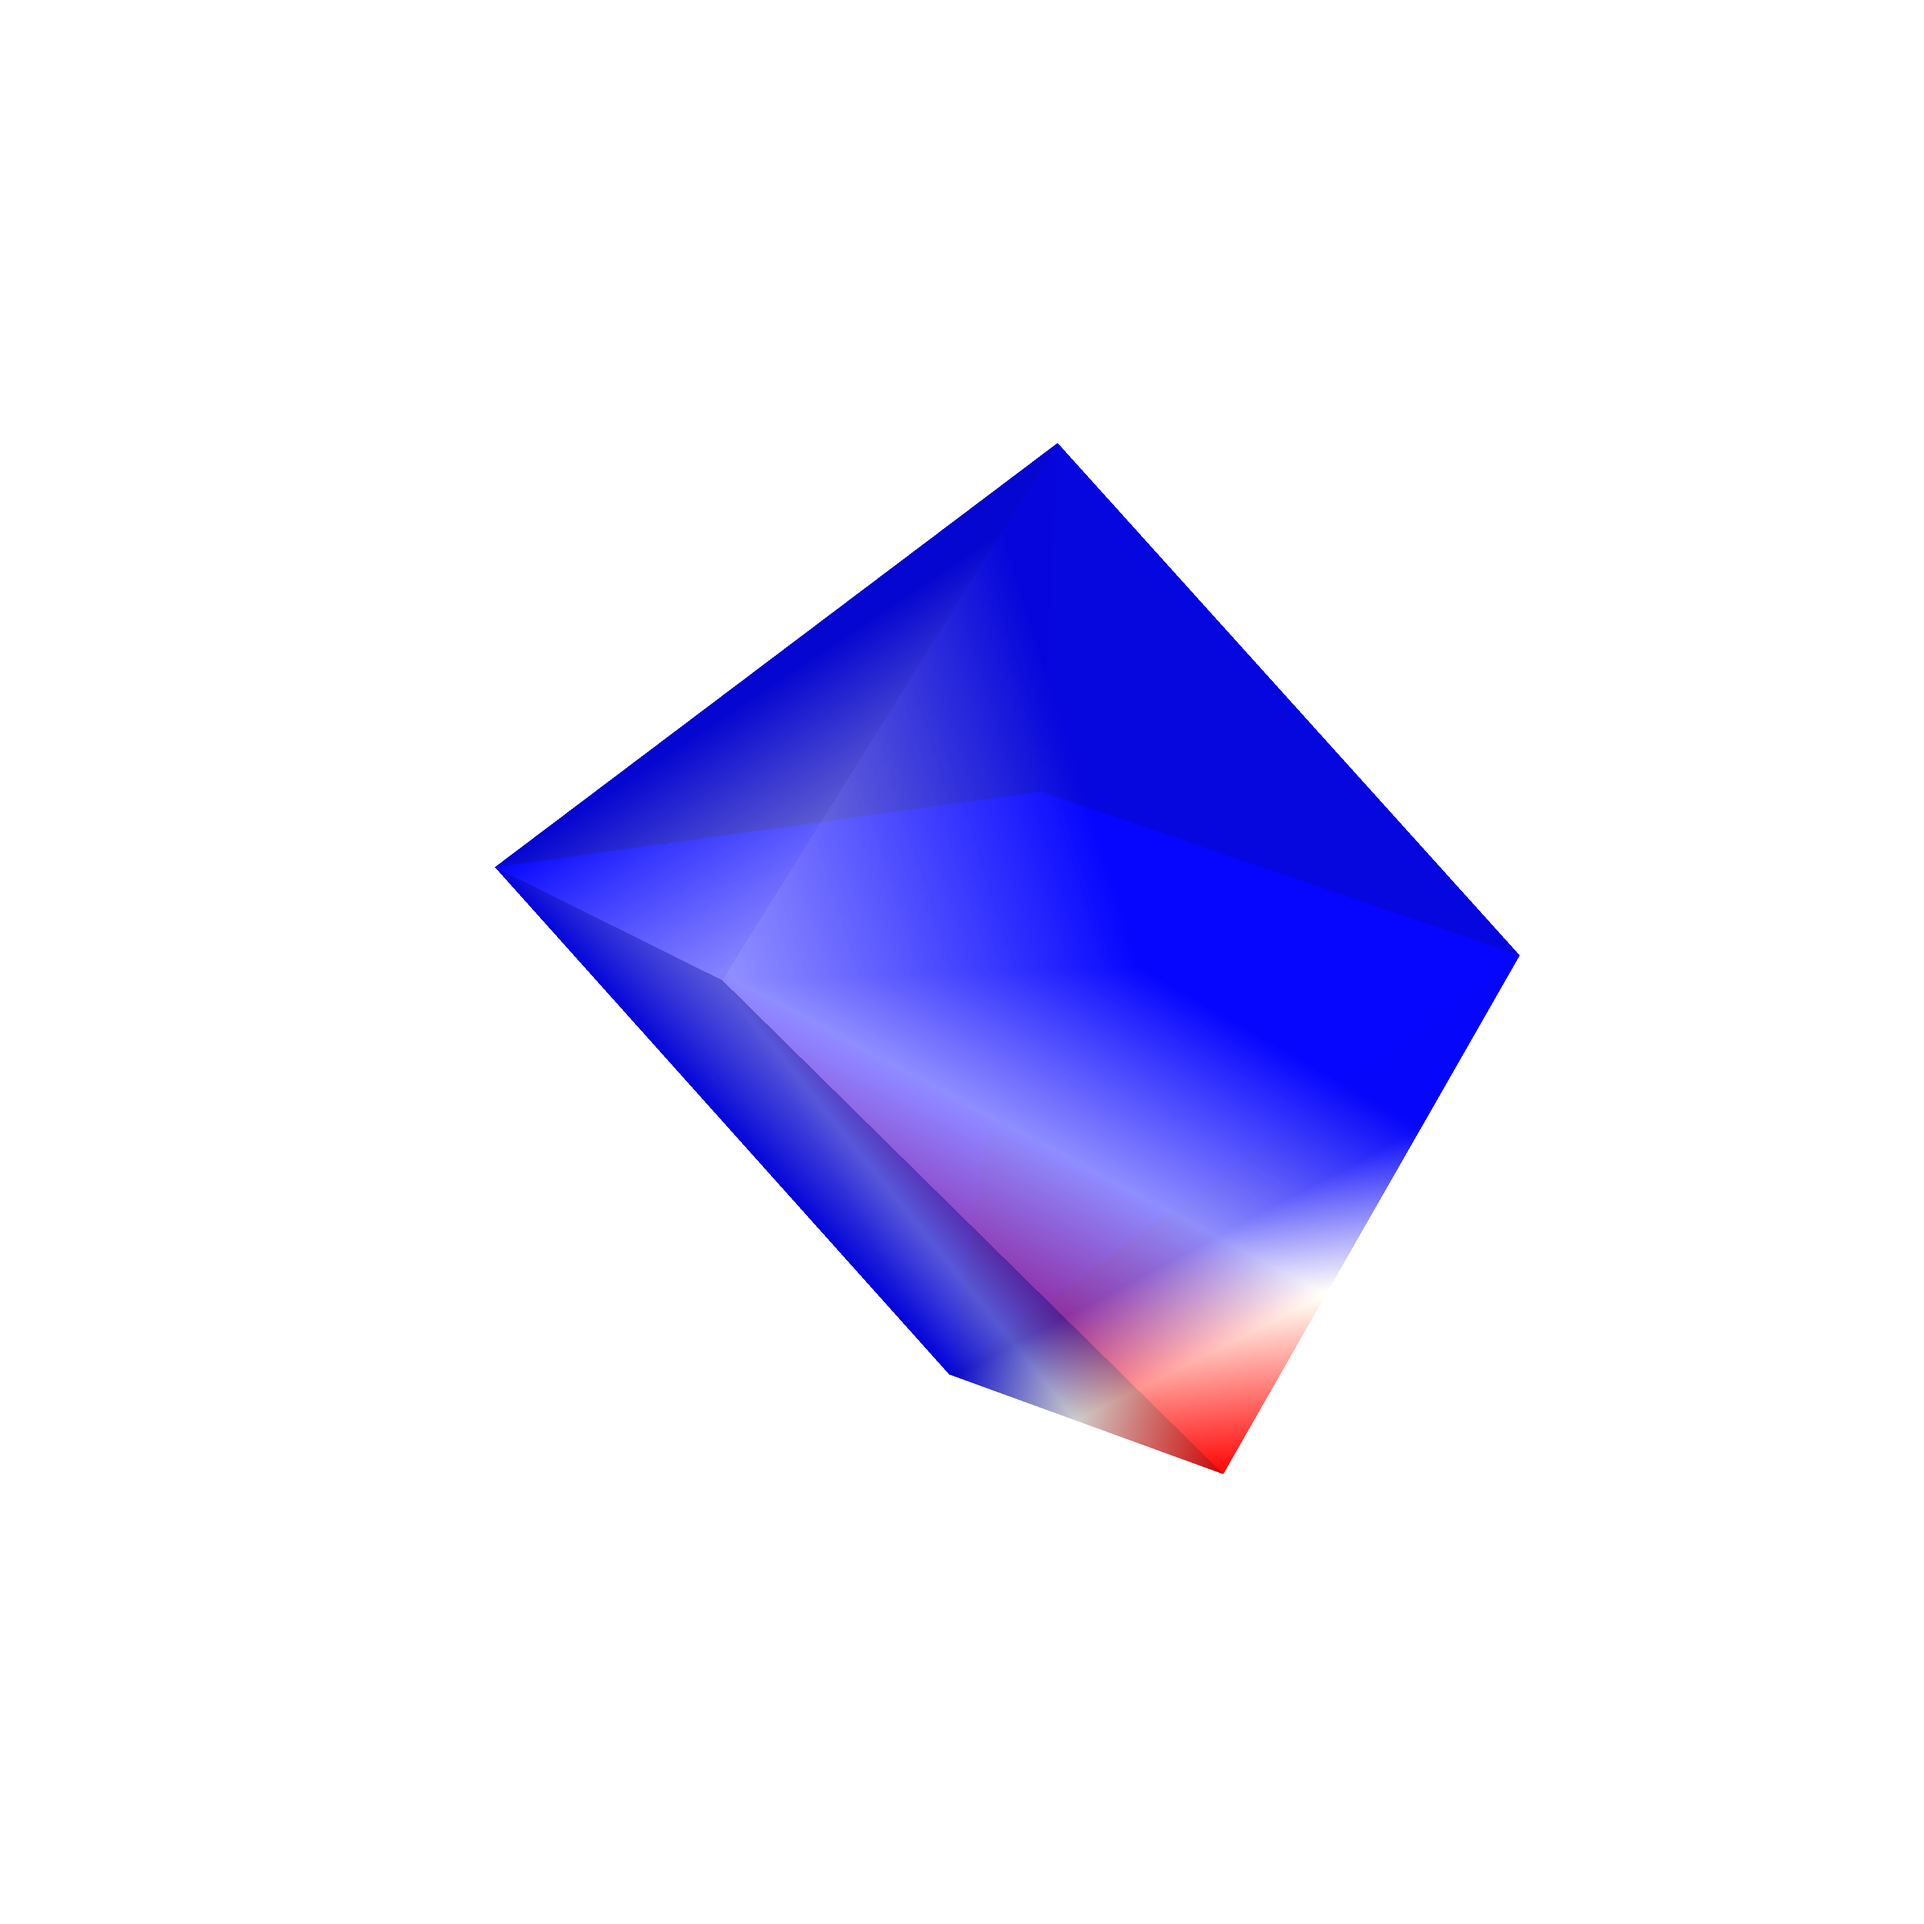
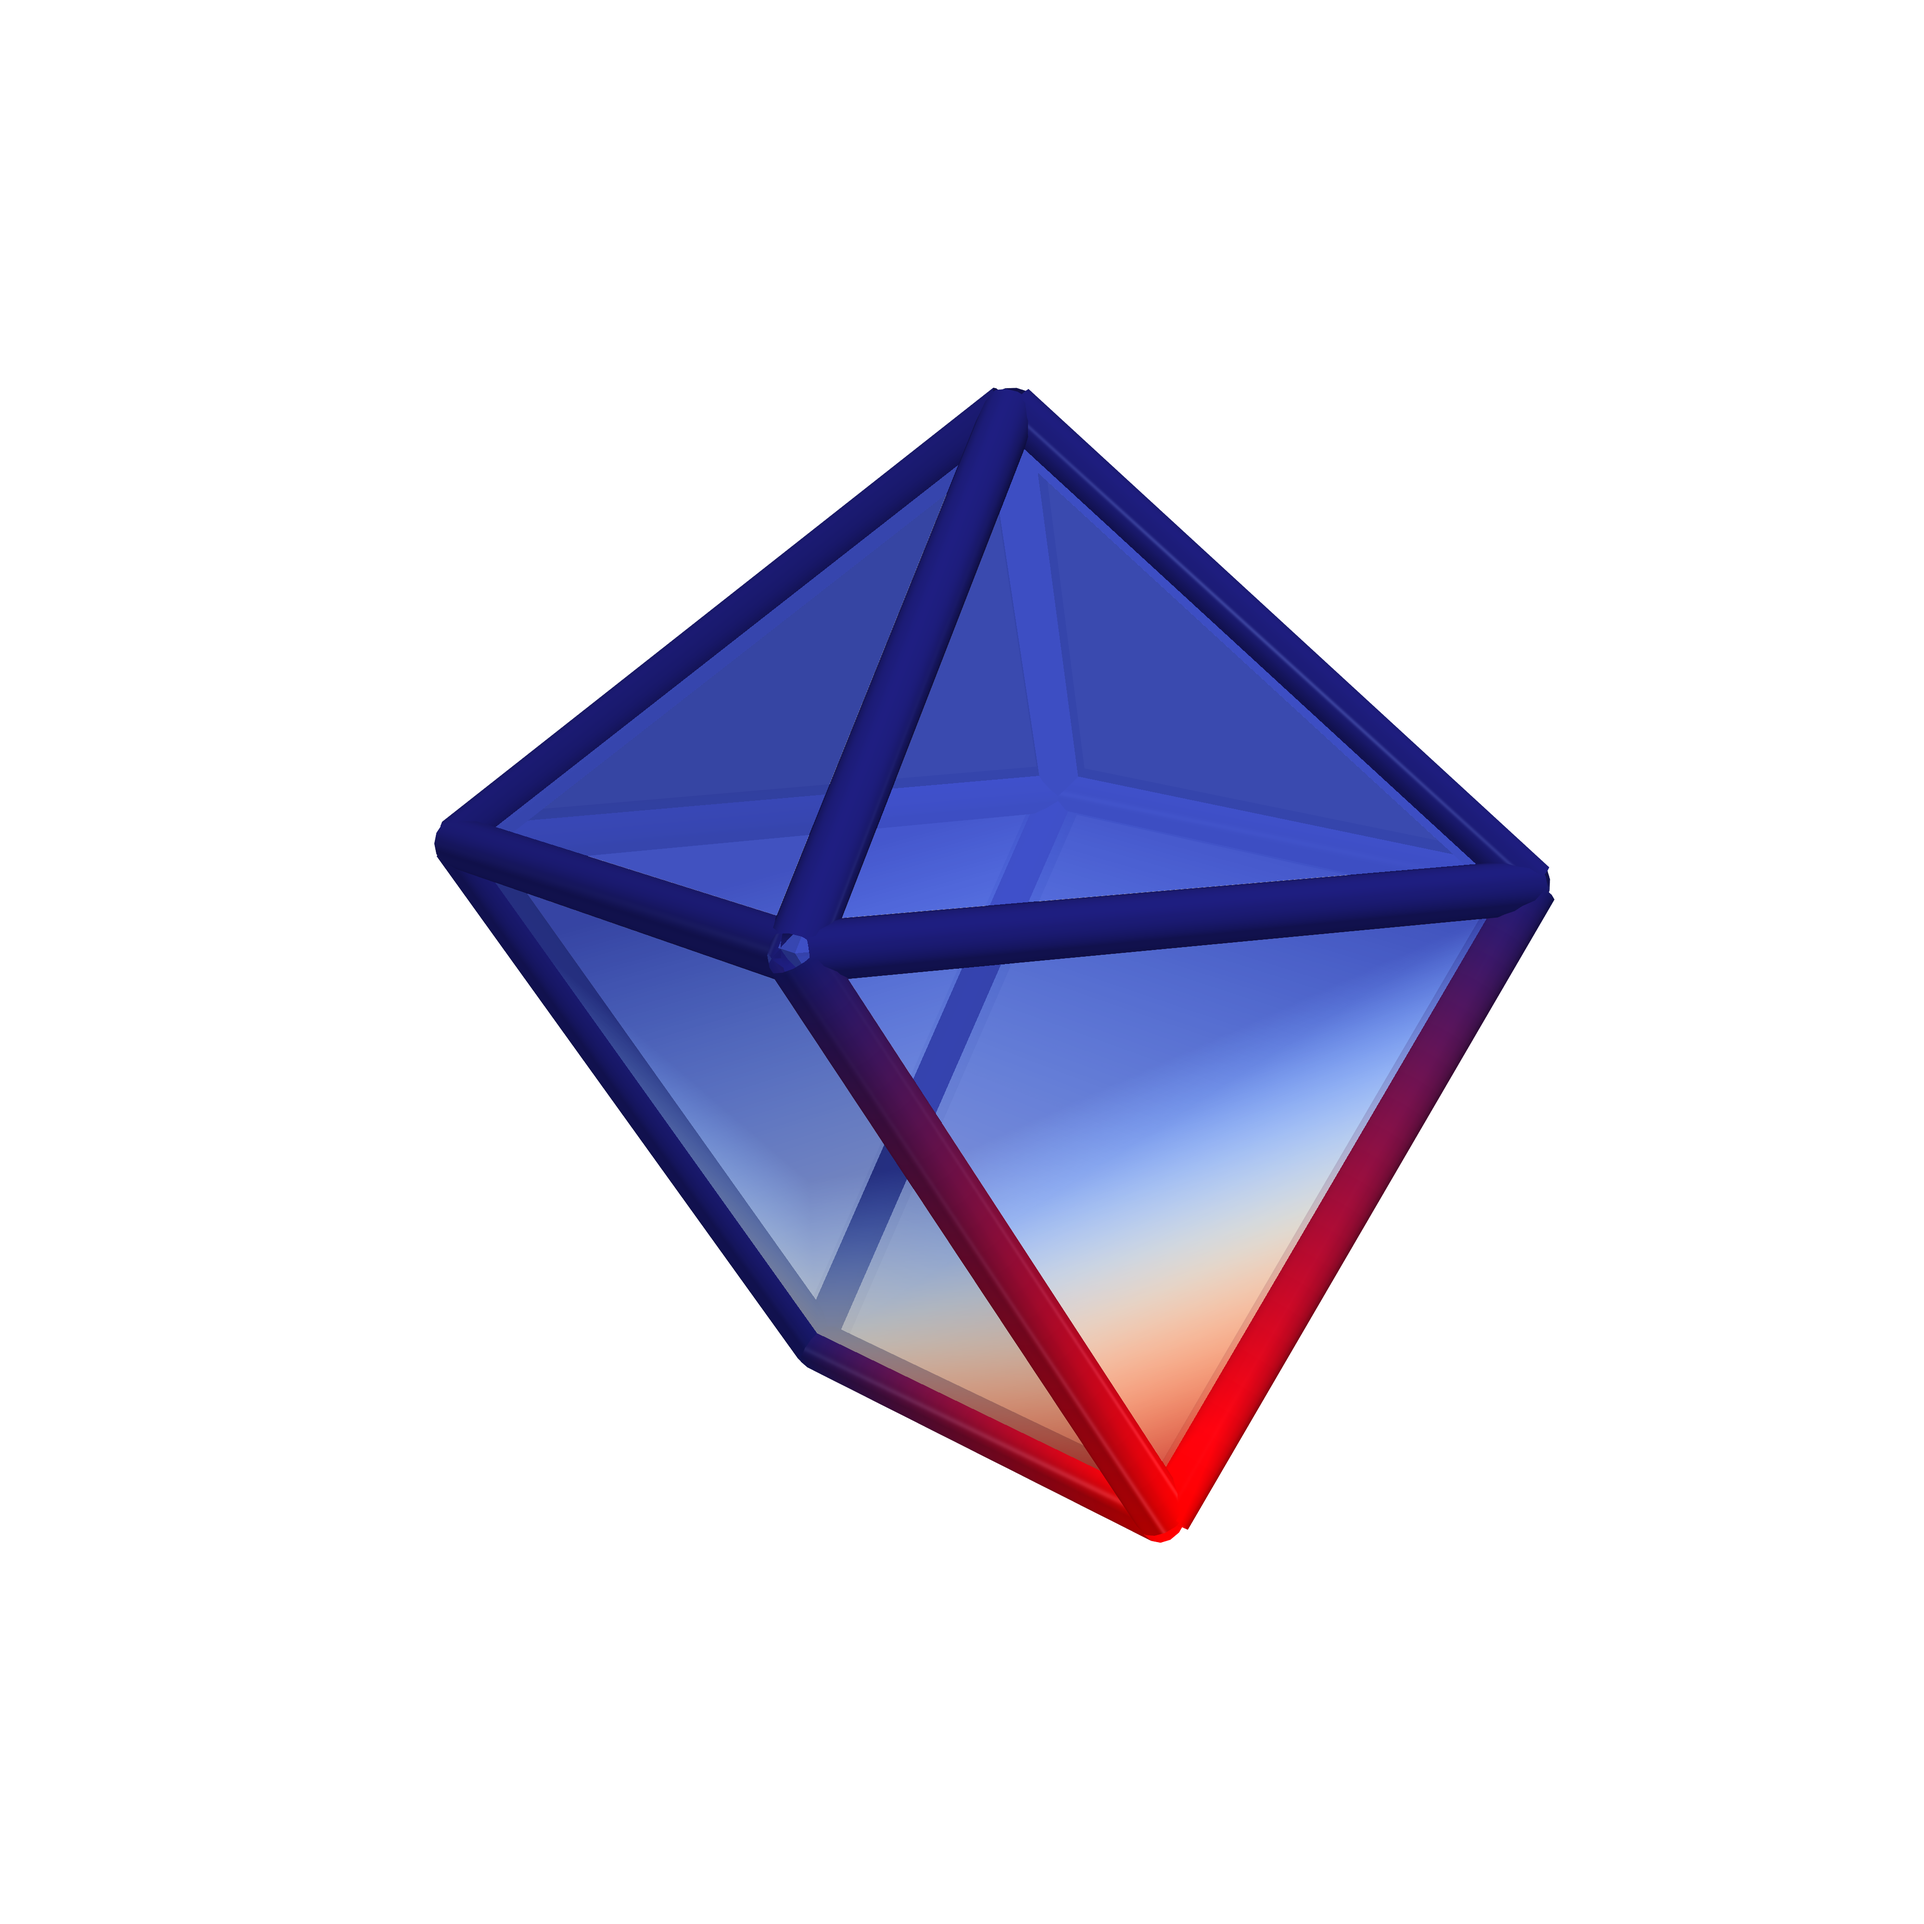
Now render the bonds as smooth

Changed region(s): [[0.2188, 0.1875, 0.8125, 0.8125]]

diff --git a/examples/render_capped_trigonal_prism/calc_sph_clean.py b/examples/render_capped_trigonal_prism/calc_sph_clean.py
@@ -64,7 +64,7 @@ def create_bonds_from_edges(plotter, hull:PolyData, edges, point_colours=None, s
     num_points = 5
     points = hull.points 
 
-    for bond in edges:
+    for idx, bond in enumerate(edges):
         a_index = bond[0]
         b_index = bond[1]
         pointa = points[a_index]
@@ -86,12 +86,14 @@ def create_bonds_from_edges(plotter, hull:PolyData, edges, point_colours=None, s
         plotter.add_mesh(tube, 
         show_edges=False,
         metallic=True,
+        smooth_shading=True,
         specular=0.7,
         ambient=0.3,
         scalars=color_ids,
         cmap=m_cmap,
         show_scalar_bar=False,
-        pickable=True)
+        pickable=True,
+        name="tube"+str(idx))
 
     return plotter 
 
@@ -183,7 +185,7 @@ pl.image_scale = 4
 
 pl.set_background("white") # Background 
 # Colour the mesh faces according to the distance from the center 
-matplotlib_cmap = plt.cm.get_cmap("bwr") # Get the colormap from matplotlib
+matplotlib_cmap = plt.cm.get_cmap("coolwarm") # Get the colormap from matplotlib
 # Add the convex hull 
 pl.add_mesh(polyhull, 
     line_width=3, 
@@ -198,7 +200,7 @@ pl.add_mesh(polyhull,
     pickable=False)
 
 # Create the bonds corresponding to the edges and add them to the plotter
-point_colours = ["blue", "blue", "blue", "blue", "blue", "blue", "red"]# Don't hard code
+point_colours = ["midnightblue", "midnightblue", "midnightblue", "midnightblue", "midnightblue", "midnightblue", "red"]# Don't hard code darkblue
 pl = create_bonds_from_edges(pl, polyhull, edges, point_colours=point_colours)
 
 # ------------------------------------
@@ -207,11 +209,10 @@ pl = create_bonds_from_edges(pl, polyhull, edges, point_colours=point_colours)
 remove_bonds = []
 
 def callback(actor):
-    print("selected, ", actor, " and type", type(actor)) 
-    print("\n")
-    pl.remove_actor(actor)
+    remove_bonds.append(actor.name)
+    print("Removed actor, ", actor.name, "\n")
 
-pl.enable_mesh_picking(callback, use_actor=True, show=False)
+pl.enable_mesh_picking(callback, use_actor=True, show=True)
 
 # ------------------------------------
 
@@ -224,10 +225,6 @@ def last_frame_info(plotter, cam_pos, outfilename=None):
     cam_positions.append(plotter.camera_position)
  
 pl.show(before_close_callback=lambda pl: last_frame_info(pl,cam_positions), auto_close=False)
-# Test image  
-pl.camera_position = cam_positions[-1]
-pl.camera_set = True
-pl.screenshot("nonoctahedral_interactive.png")
 # -------------------------------------------------
 # Create a separate render image 
 pl_render = pv.Plotter(off_screen=True, window_size=[4000,4000])
@@ -245,8 +242,14 @@ pl_render.add_mesh(polyhull,
     clim=[dist[4],dist[-1]], 
     scalars=dist) 
 
+# Create the bonds from the edges
+pl_render = create_bonds_from_edges(pl_render, polyhull, edges, point_colours=point_colours)
+# Remove the bonds 
+pl_render.remove_actor(remove_bonds)
+
 pl_render.camera_position = cam_positions[-1]
 pl_render.camera_set = True
+print("Camera position set to ", pl_render.camera_position)
 pl_render.screenshot("nonoctahedral.png")
 
 from PIL import Image, ImageChops
